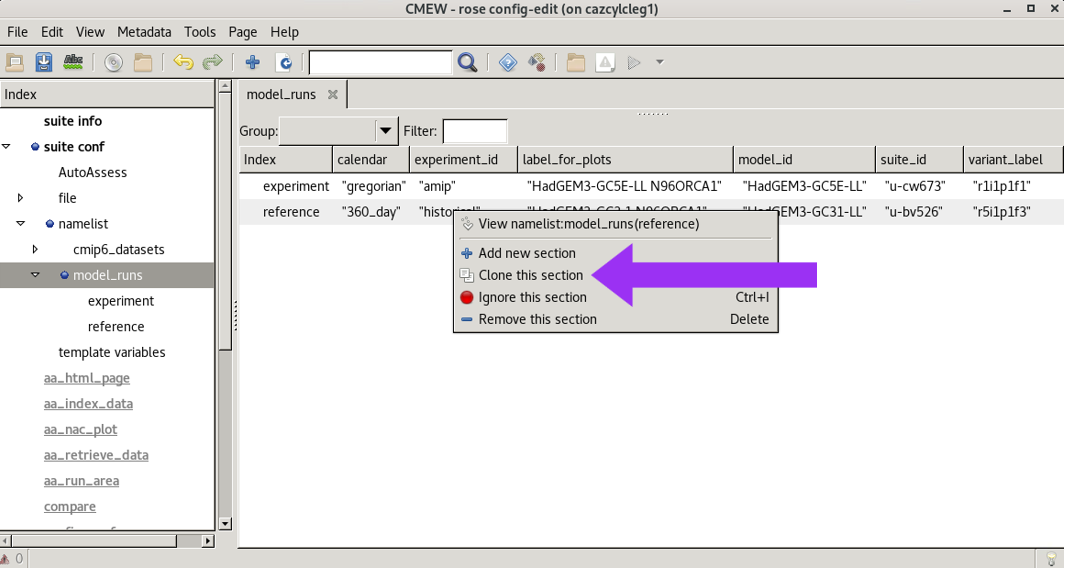
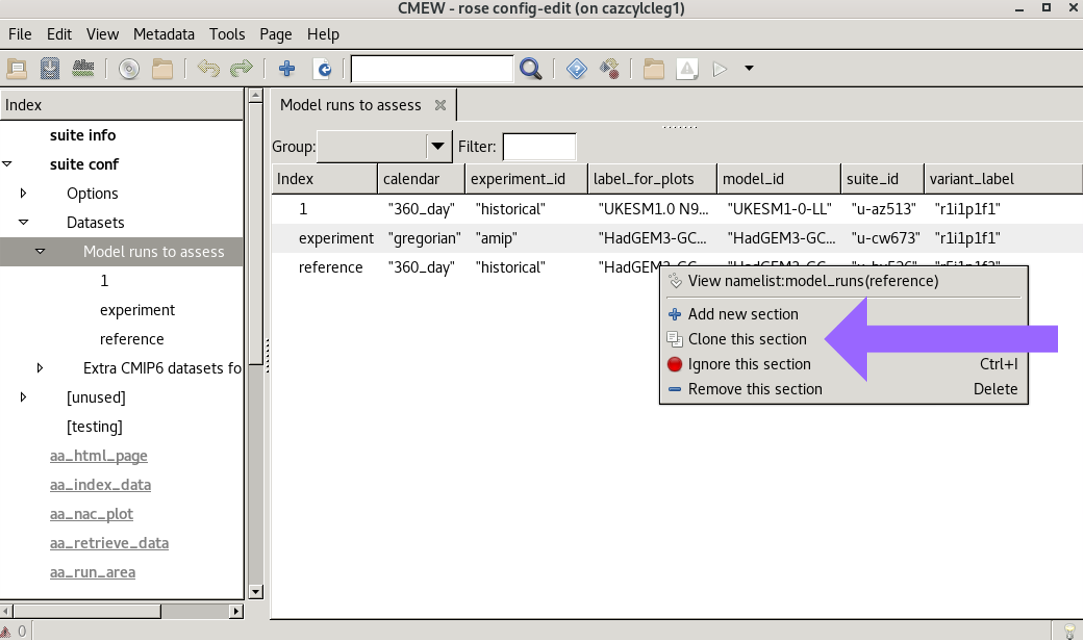
Changes to "configuring datasets" documentation

Changed region(s): [[0.0, 0.0, 1.0, 1.0], [0.3715, 0.0, 0.6501, 0.0299]]

diff --git a/doc/source/user_guide/configuring_datasets.rst b/doc/source/user_guide/configuring_datasets.rst
@@ -25,16 +25,16 @@ and then edit the details. To do this:
 
 * In the Rose GUI, click the triangle to the left of "suite conf" to expose a submenu.
 
-* Click the triangle to the left of "namelist" to expand the namelist sections.
+* Click the triangle to the left of "Datasets" to expand the dataset sections.
 
-* Select the type of dataset you wish to add, e.g. "model_runs".
+* Select the type of dataset you wish to add, e.g. "Model runs to assess".
 
 * Right-click an existing entry and select "Clone this section" from the pop-up menu.
 
 .. image:: images/clone_button.png
    :alt: An image of the Rose GUI showing the "suite conf",
-         with the "namelist" section expanded,
-         the model_runs section of the namelist selected,
+         with the "Datasets" section expanded,
+         the "Model runs to assess" section selected,
          and a pop-up menu over the second entry.
    :width: 800px
 
@@ -54,7 +54,7 @@ If the clone button is used, the default is "1", "2" and so on.
 
 Once a new dataset has been added, it may be named as the reference (or evaluation) run by
 
-* Navigating to the "model_runs" area of the namelists.
+* Navigating to the "Model runs to assess" area of "Datasets".
 
 * Right-clicking the entry to be amended (renamed).
 
@@ -65,9 +65,9 @@ There is currently no way to select a CMIP dataset as the reference (or evaluati
 so these sections may be named in any way with no effects.
 
 .. image:: images/rename_section.png
-   :alt: An image of the Rose GUI showing a pop-up menu over a model_runs entry named "1",
+   :alt: An image of the Rose GUI showing a pop-up menu over a model run named "1",
          with an arrow pointing to the option "Rename a section".
-   :width: 600px
+   :width: 800px
 
 
 These changes may also be made directly to the ``rose-suite.conf`` file
